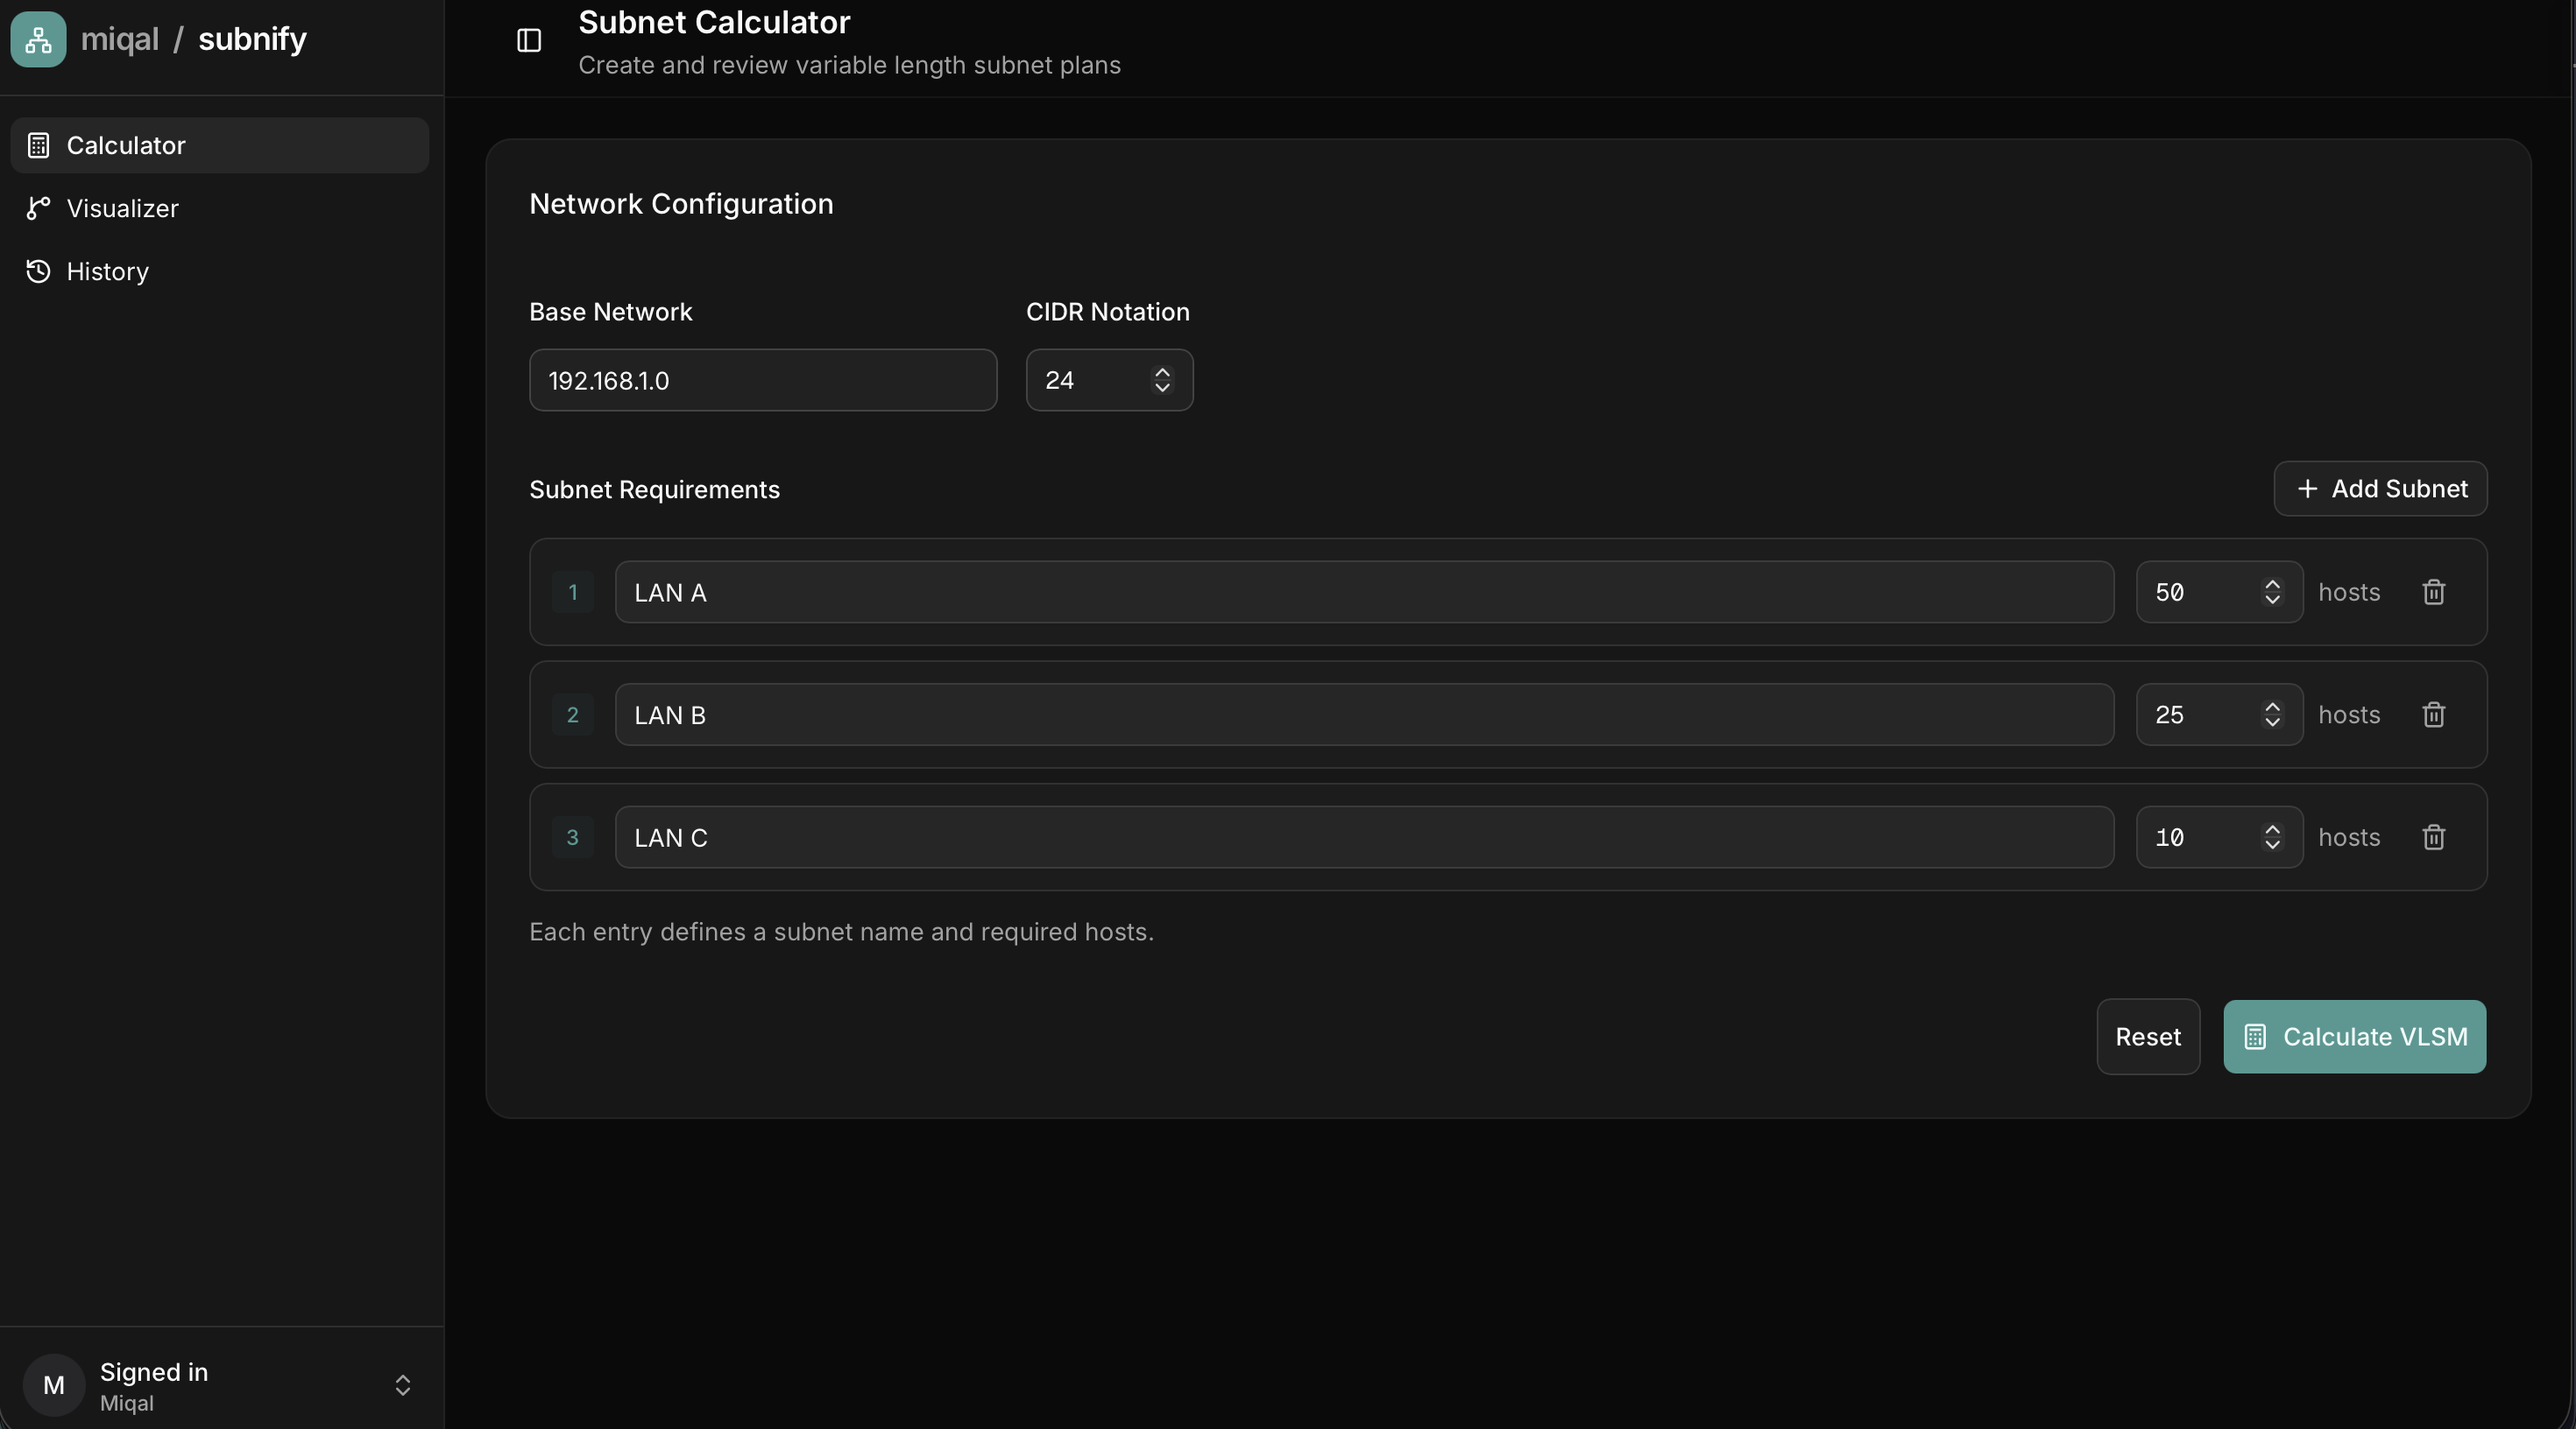
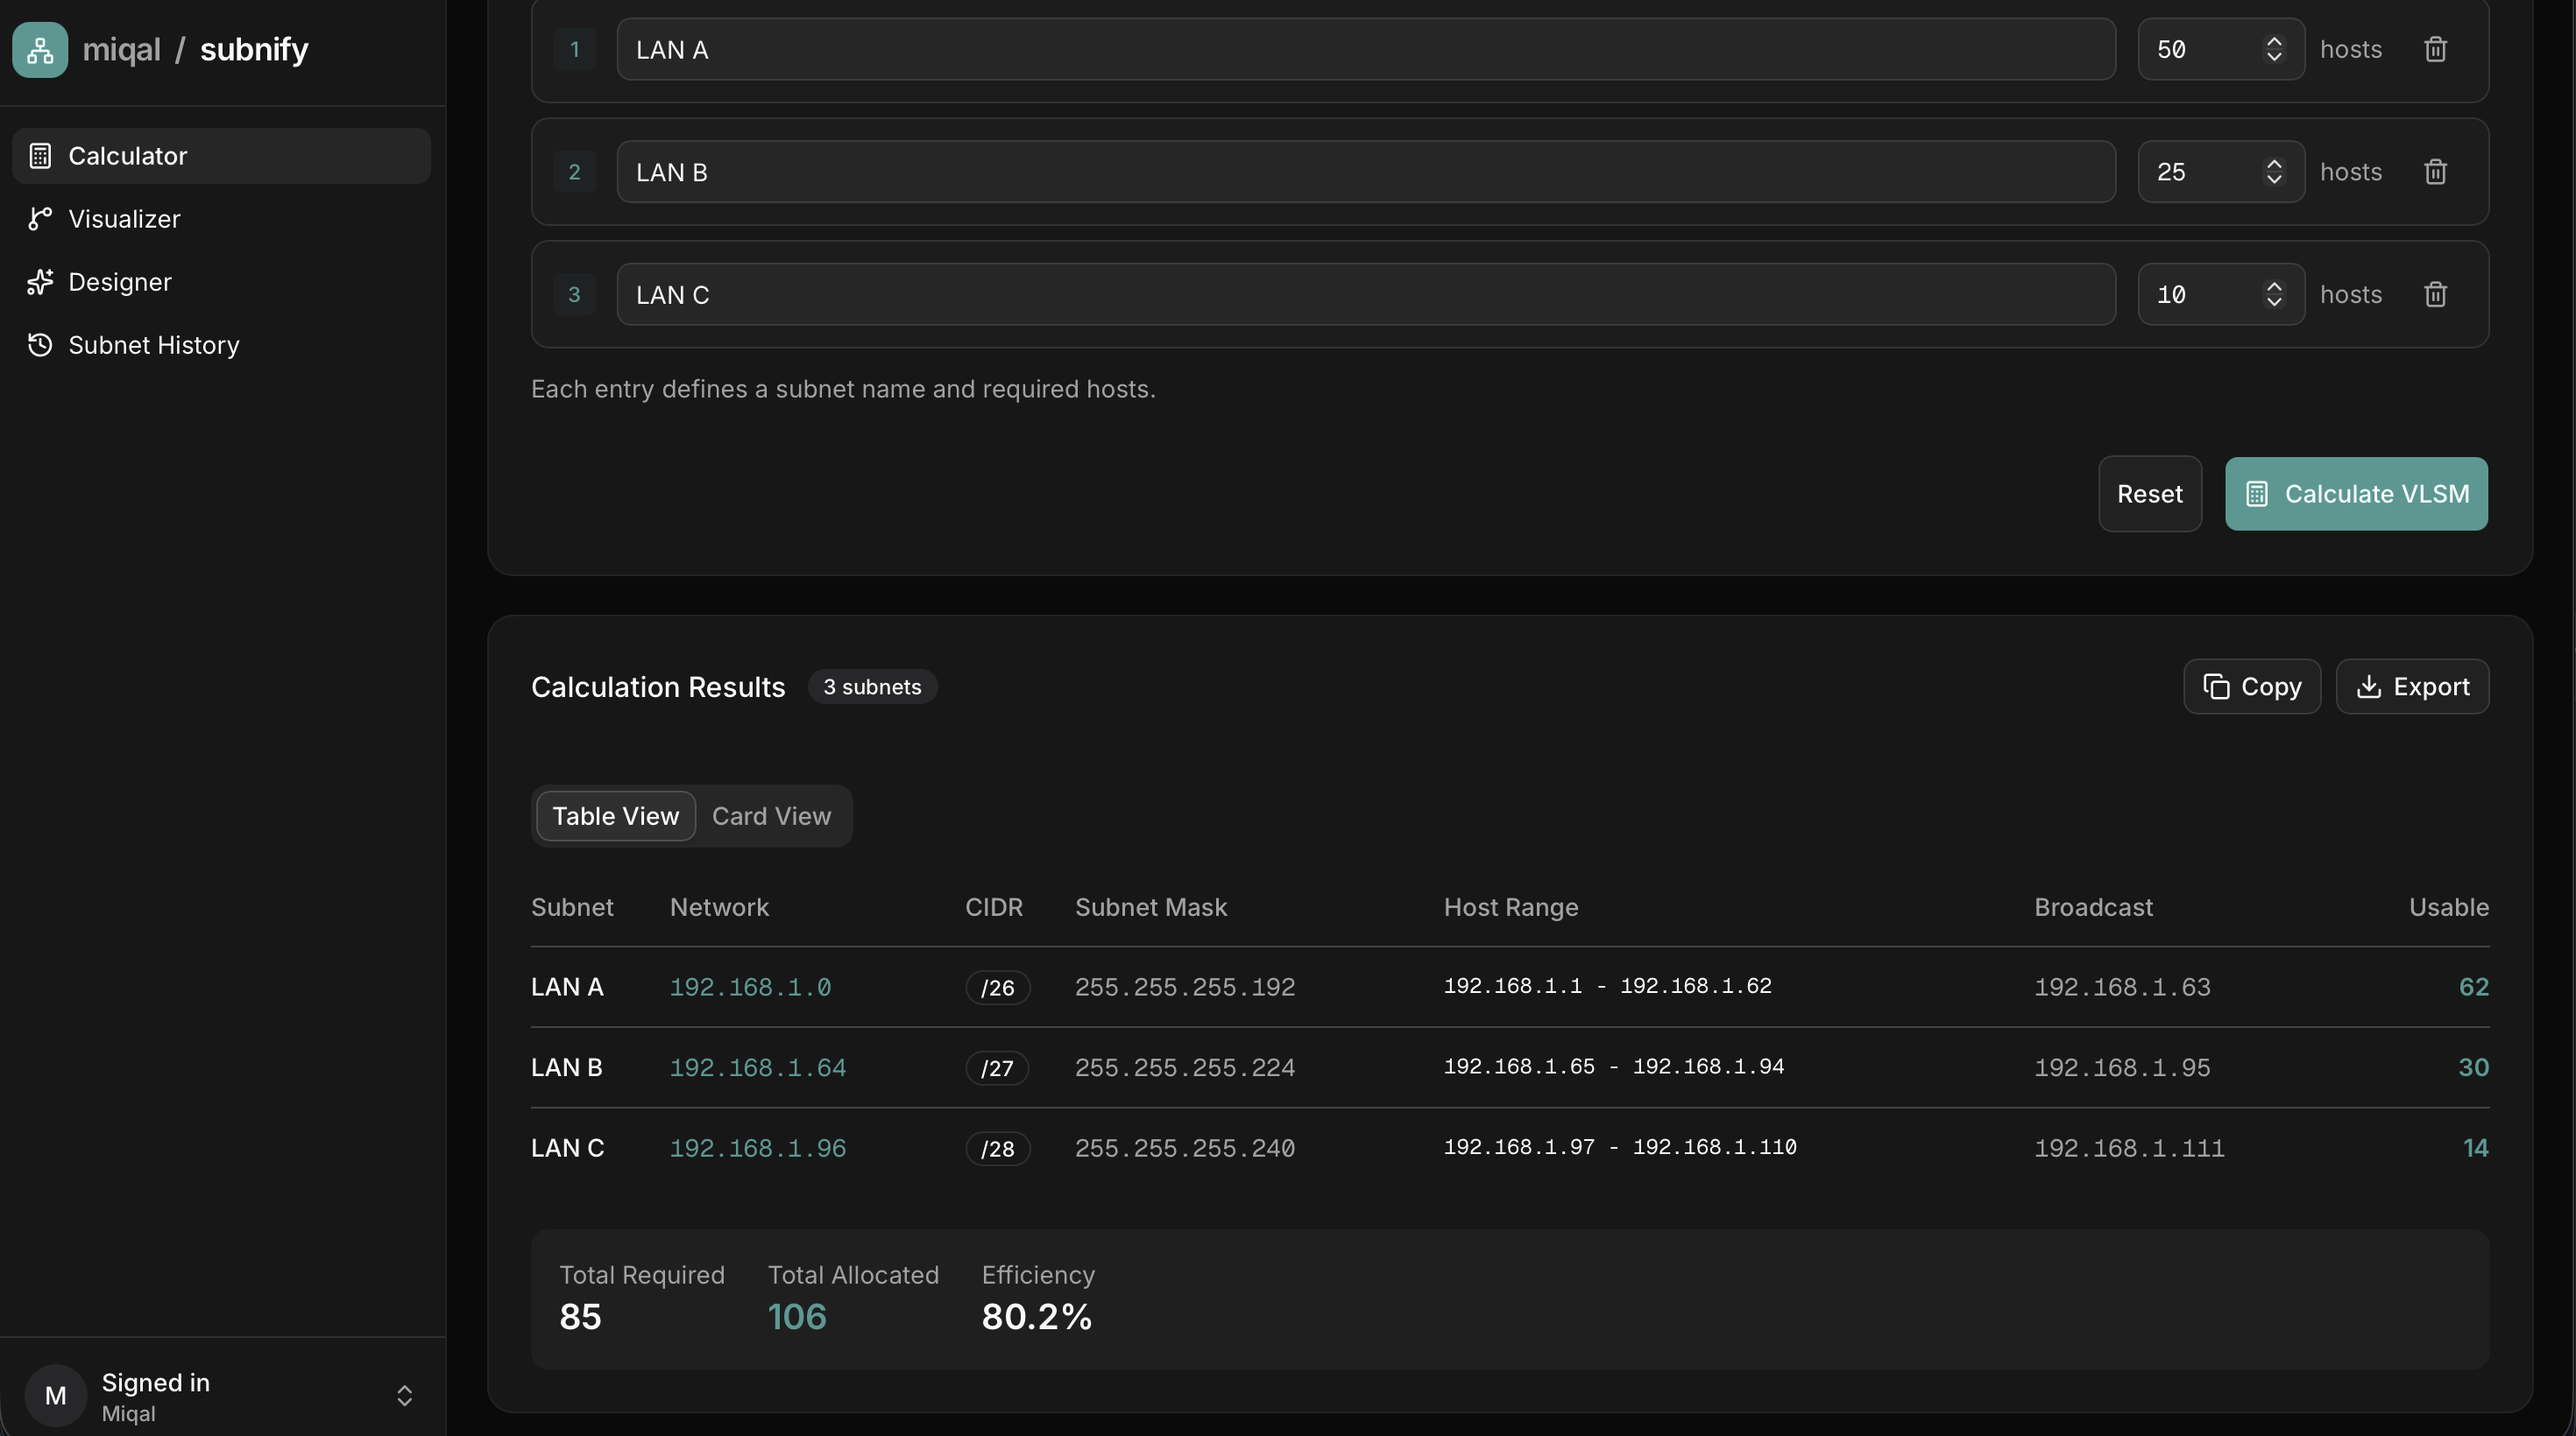
feat: update subnify project

diff --git a/app/[locale]/page.tsx b/app/[locale]/page.tsx
@@ -286,7 +286,12 @@ export default async function Page({
               <div className="p-6">
                 <div className="flex flex-col gap-4 sm:flex-row sm:items-start sm:justify-between">
                   <div>
-                    <h3 className="text-base font-semibold">{t("projects.subnifyTitle")}</h3>
+                    <div className="flex items-center gap-2">
+                      <h3 className="text-base font-semibold">{t("projects.subnifyTitle")}</h3>
+                      <span className="border border-primary/30 bg-primary/5 px-2 py-0.5 text-[10px] font-semibold uppercase tracking-wide text-primary">
+                        {t("projects.subnifyBadge")}
+                      </span>
+                    </div>
                     <p className="mt-1 text-xs text-muted-foreground">{t("projects.subnifySubtitle")}</p>
                   </div>
                   <div className="flex shrink-0 flex-wrap gap-2">
@@ -322,6 +327,7 @@ export default async function Page({
                       "subnifyBullet2",
                       "subnifyBullet3",
                       "subnifyBullet4",
+                      "subnifyBullet5",
                     ] as const
                   ).map((key) => (
                     <li key={key} className="flex gap-2">
